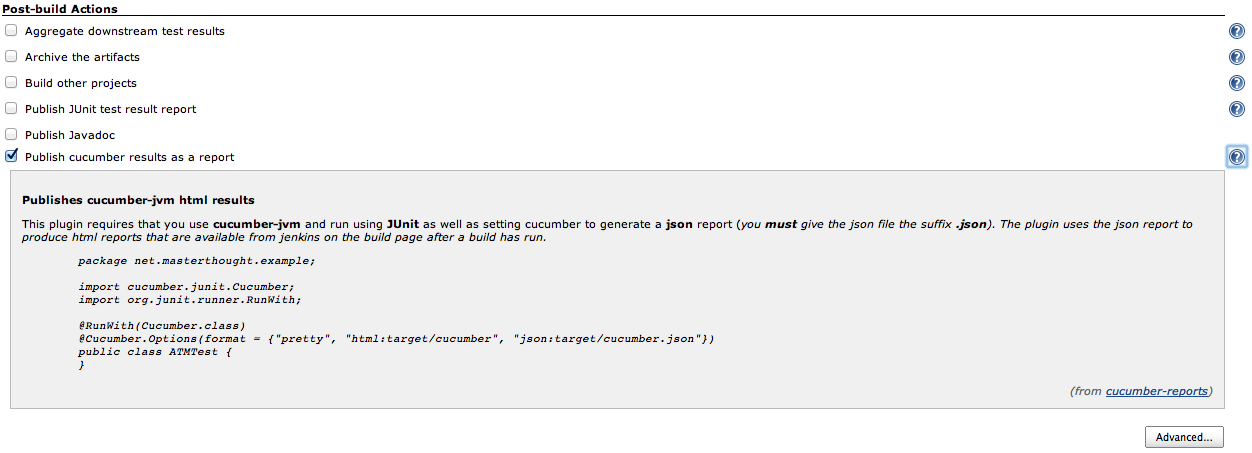
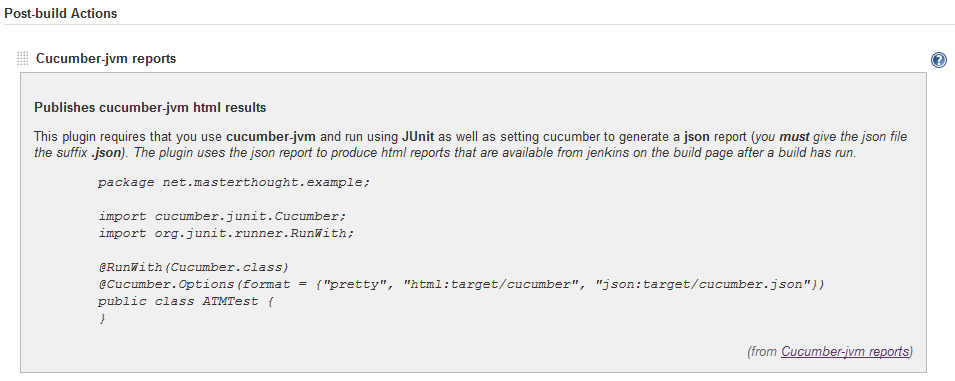
Updated .README.md and screenshots after UX upgrade

diff --git a/README.md b/README.md
@@ -5,12 +5,7 @@
 
 # Publish pretty [cucumber-jvm](https://github.com/cucumber/cucumber-jvm) reports on [Jenkins](http://jenkins-ci.org/)
 
-This is a Java Jenkins plugin which publishes pretty html reports showing the results of cucumber-jvm runs. It also works for the ruby versions of cucumber - not just the cucumber-jvm. To use with regular cucumber just make sure to run cucumber like this: cucumber --format json -o cucumber.json
-
-## Put up a Bounty
-If you would like something fixed or an enhancement added feel free to create a bounty for it and I will be immediately more motivated to fix or create the item
-
-[https://www.bountysource.com/trackers/17809-masterthought-jenkins-cucumber-jvm-reports-plugin-java](https://www.bountysource.com/trackers/17809-masterthought-jenkins-cucumber-jvm-reports-plugin-java)
+This is a Java Jenkins plugin which publishes pretty html reports showing the results of cucumber-jvm runs. It also works for the ruby versions of cucumber - not just the cucumber-jvm. To use with regular cucumber just make sure to run cucumber like this: cucumber `--format json -o cucumber.json`
 
 ## Background
 
@@ -22,17 +17,11 @@ This plugin allows Jenkins to publish the results as pretty html reports hosted 
 
 1. [Get](https://jenkins-ci.org/) Jenkins.
 
-2. Install the [cucumber-jvm-reports-java]
-(http://www.masterthought.net/section/cucumber-reporting) plugin.
+2. Install the [Cucumber-JVM Reports](https://wiki.jenkins-ci.org/display/JENKINS/Cucumber+Reports+Plugin) plugin.
 
 3. Restart Jenkins.
 
-Read this if you need further  [detailed install and configuration]
-(https://github.com/masterthought/jenkins-cucumber-jvm-reports-plugin-java/wiki/Detailed-Configuration) instructions 
-
-## Release Notes
-
-Release notes are [here](https://github.com/masterthought/jenkins-cucumber-jvm-reports-plugin-java/wiki/Release-Notes)
+Read this if you need further  [detailed install and configuration](https://github.com/jenkinsci/cucumber-reports-plugin/wiki/Detailed-Configuration) instructions 
 
 ## Use
 You must use a **Freestyle project type** in jenkins.
@@ -41,12 +30,12 @@ With the cucumber-jvm-reports plugin installed in Jenkins, you simply check the 
 publish section of the build config:
 
 ![check the publish cucumber-jvm-reports box]
-(https://github.com/masterthought/jenkins-cucumber-jvm-reports-plugin-java/raw/master/.README/publish-box.png)
+(https://github.com/jenkinsci/cucumber-reports-plugin/raw/master/.README/publish-box.png)
 
 If you need more control over the plugin you can click the Advanced button for more options:
 
 ![check the publish cucumber-jvm-reports box]
-(https://github.com/choutman/jenkins-cucumber-jvm-reports-plugin-java/raw/master/.README/advanced-publish-box.png)
+(https://github.com/jenkinsci/cucumber-reports-plugin/raw/master/.README/advanced-publish-box.png)
 
 1. Leave empty for the plugin to automagically find your json files or enter the path to the json reports relative to the workspace if for some reason the automagic doesn't work for you
 2. Leave empty unless your jenkins is installed on a different url to the default hostname:port - see the wiki for further info on this option
@@ -58,70 +47,38 @@ If you need more control over the plugin you can click the Advanced button for m
 When a build runs that publishes cucumber-jvm results it will put a link in the sidepanel to the cucumber reports. There is a feature overview page:
 
 ![feature overview page]
-(https://github.com/masterthought/jenkins-cucumber-jvm-reports-plugin-java/raw/master/.README/feature-overview.png)
+(https://github.com/damianszczepanik/cucumber-reporting/raw/master/.README/feature-overview.png)
 
 And there are also feature specific results pages:
 
 ![feature specific page passing]
-(https://github.com/masterthought/jenkins-cucumber-jvm-reports-plugin-java/raw/master/.README/feature-passed.png)
+(https://github.com/damianszczepanik/cucumber-reporting/raw/master/.README/feature-passed.png)
 
 And useful information for failures:
 
-![feature specific page passing]
-(https://github.com/masterthought/jenkins-cucumber-jvm-reports-plugin-java/raw/master/.README/feature-failed.png)
+![feature specific page failing]
+(https://github.com/damianszczepanik/cucumber-reporting/raw/master/.README/feature-failed.png)
 
 If you have tags in your cucumber features you can see a tag overview:
 
 ![Tag overview]
-(https://github.com/masterthought/jenkins-cucumber-jvm-reports-plugin-java/raw/master/.README/tag-overview.png)
+(https://github.com/damianszczepanik/cucumber-reporting/raw/master/.README/tag-overview.png)
 
 And you can drill down into tag specific reports:
 
 ![Tag report]
-(https://github.com/masterthought/jenkins-cucumber-jvm-reports-plugin-java/raw/master/.README/tag-report.png)
+(https://github.com/damianszczepanik/cucumber-reporting/raw/master/.README/tag-report.png)
 
 ## Advanced Configuration Options
 
 There are 4 advanced configuration options that can affect the outcome of the build status. Click on the Advanced tab in the configuration screen:
 
 ![Advanced Configuration]
-(https://github.com/choutman/jenkins-cucumber-jvm-reports-plugin-java/raw/master/.README/advanced_options.png)
+(https://github.com/jenkinsci/cucumber-reports-plugin/raw/master/.README/advanced_options.png)
 
 The first setting is Skipped steps fail the build - so if you tick this any steps that are skipped during executions will be marked as failed and will cause the build to fail:
 
-![Skipped Fails]
-(https://github.com/masterthought/jenkins-cucumber-jvm-reports-plugin-java/raw/master/.README/skipped_fails.png)
-
-The second setting is Not Implemented steps fail the build - so if you tick this any steps that are not implemented will be marked as failed and will cause the build to fail:
-
-![Not Implemented Fails]
-(https://github.com/masterthought/jenkins-cucumber-jvm-reports-plugin-java/raw/master/.README/pending_fails.png)
-
 If you check both skipped and not implemented fails the build then your report will look something like this:
-
-![Not Implemented and Skipped Fails]
-(https://github.com/masterthought/jenkins-cucumber-jvm-reports-plugin-java/raw/master/.README/pending_skipped_fails.png)
-
-Finally if you don't check either of these options then skipped or not implemented steps will not fail the build and the report will look something like this:
-
-![Build Passes on Skipped and Not Implemented]
-(https://github.com/masterthought/jenkins-cucumber-jvm-reports-plugin-java/raw/master/.README/skipped_pending_no_fail.png)
-
-The third setting is to turn off the default flash charts - if you check this then you will get javascript charts using graphael javascript charting library.
-
-Javascript Charts on Feature Overview:
-
-![JS Feature Overview]
-(https://github.com/masterthought/jenkins-cucumber-jvm-reports-plugin-java/raw/master/.README/js-feature-overview.png)
-
-Javascript Charts on Tag Overview:
-
-![JS Feature Overview]
-(https://github.com/masterthought/jenkins-cucumber-jvm-reports-plugin-java/raw/master/.README/js-tag-overview.png)
-
-Unstable builds:
-
-The fourth setting is Ignore failed tests - so if you tick this and one of the tests fail, the build becomes unstable instead of failed.
 
 
 Make sure you have configured cucumber-jvm to run with the JUnit runner and to generate a json report: (note - you can add other formatters in if you like e.g. pretty - but only the json formatter is required for the reports to work)
@@ -139,4 +96,4 @@ Make sure you have configured cucumber-jvm to run with the JUnit runner and to g
 ## Develop
 
 Interested in contributing to the Jenkins cucumber-jvm-reports plugin?  Great!  Start [here]
-(https://github.com/masterthought/jenkins-cucumber-jvm-reports-plugin-java).
+(https://github.com/jenkinsci/cucumber-reports-plugin).
